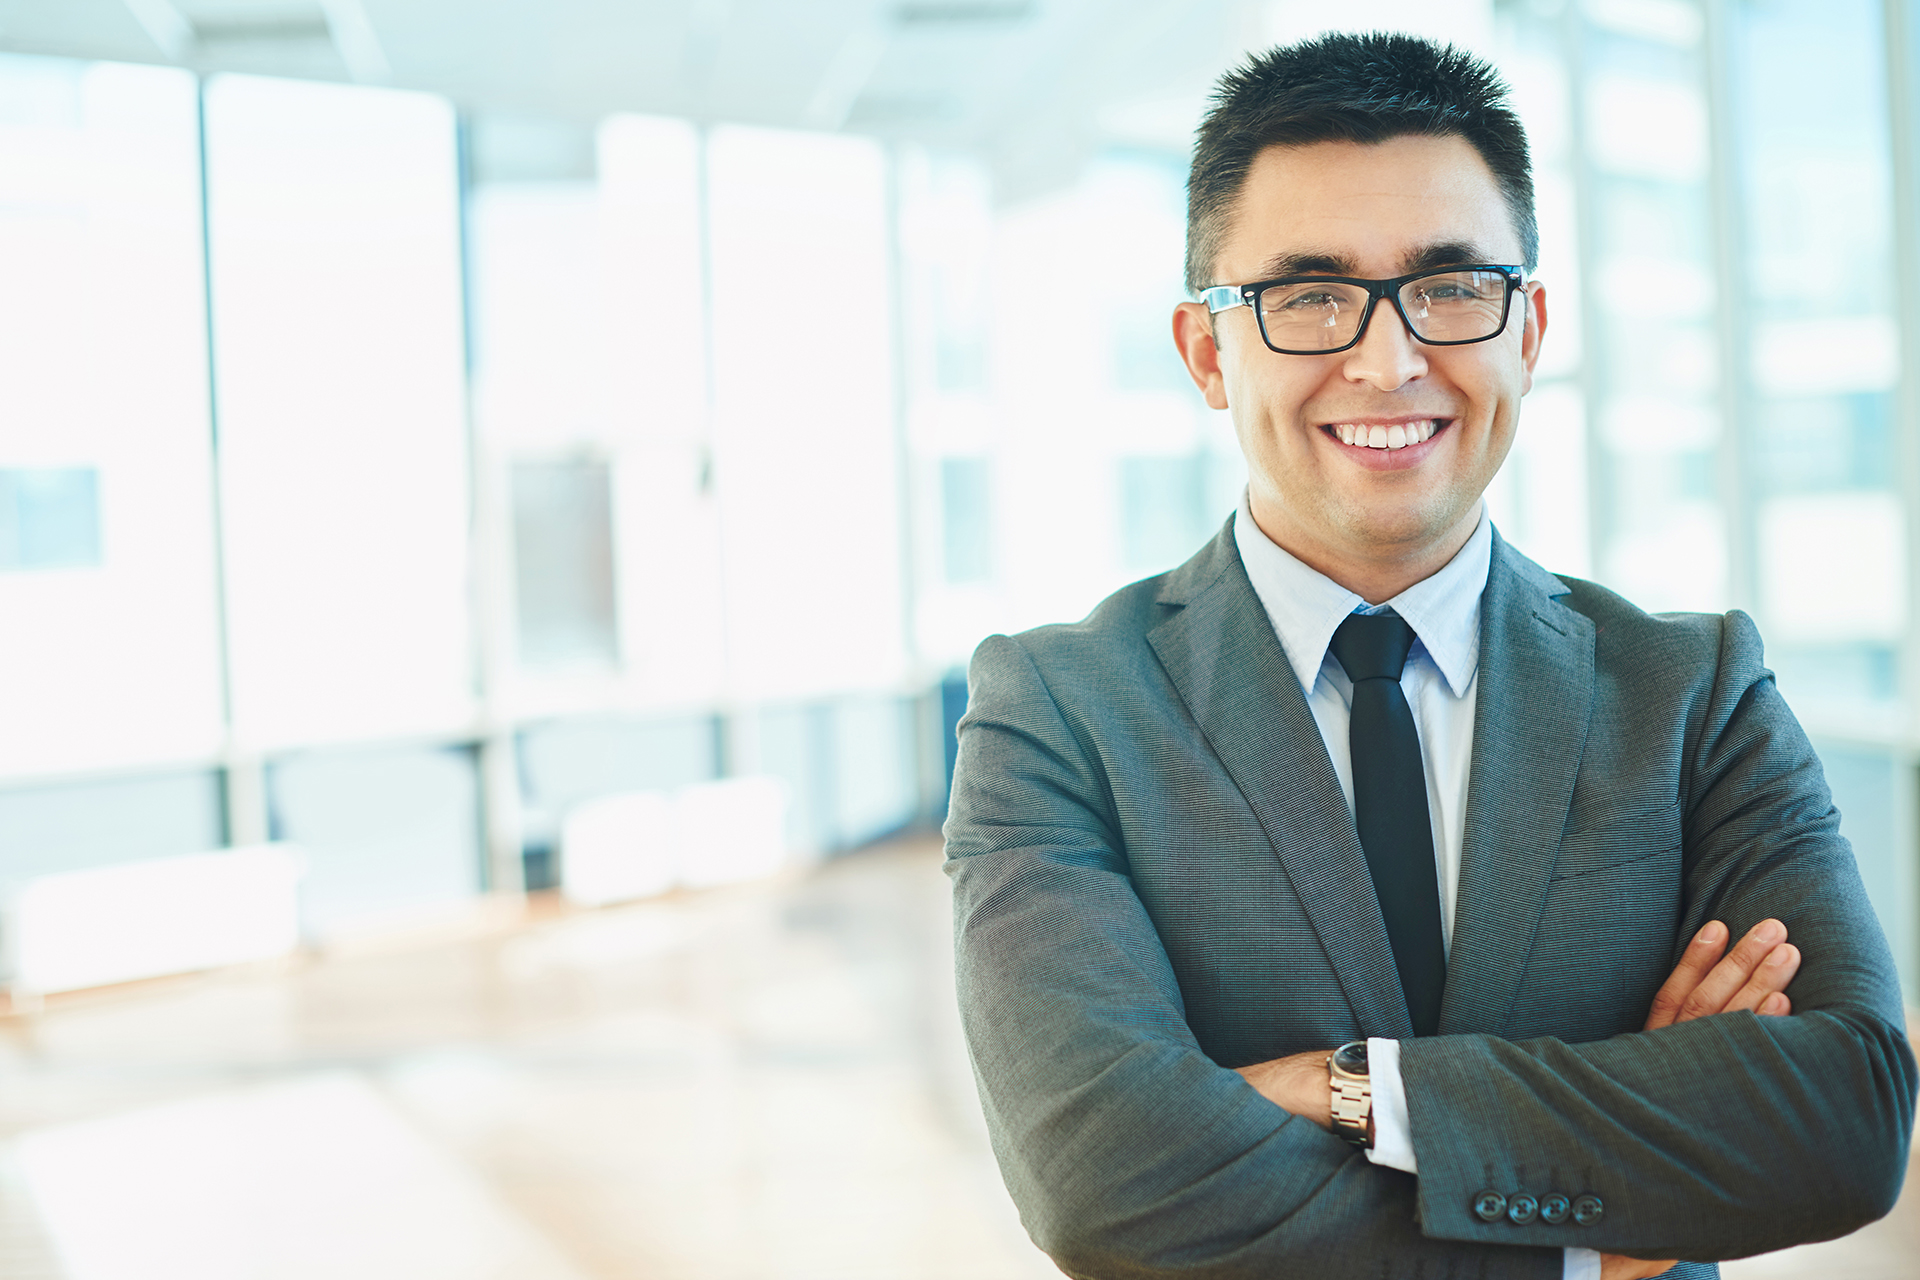
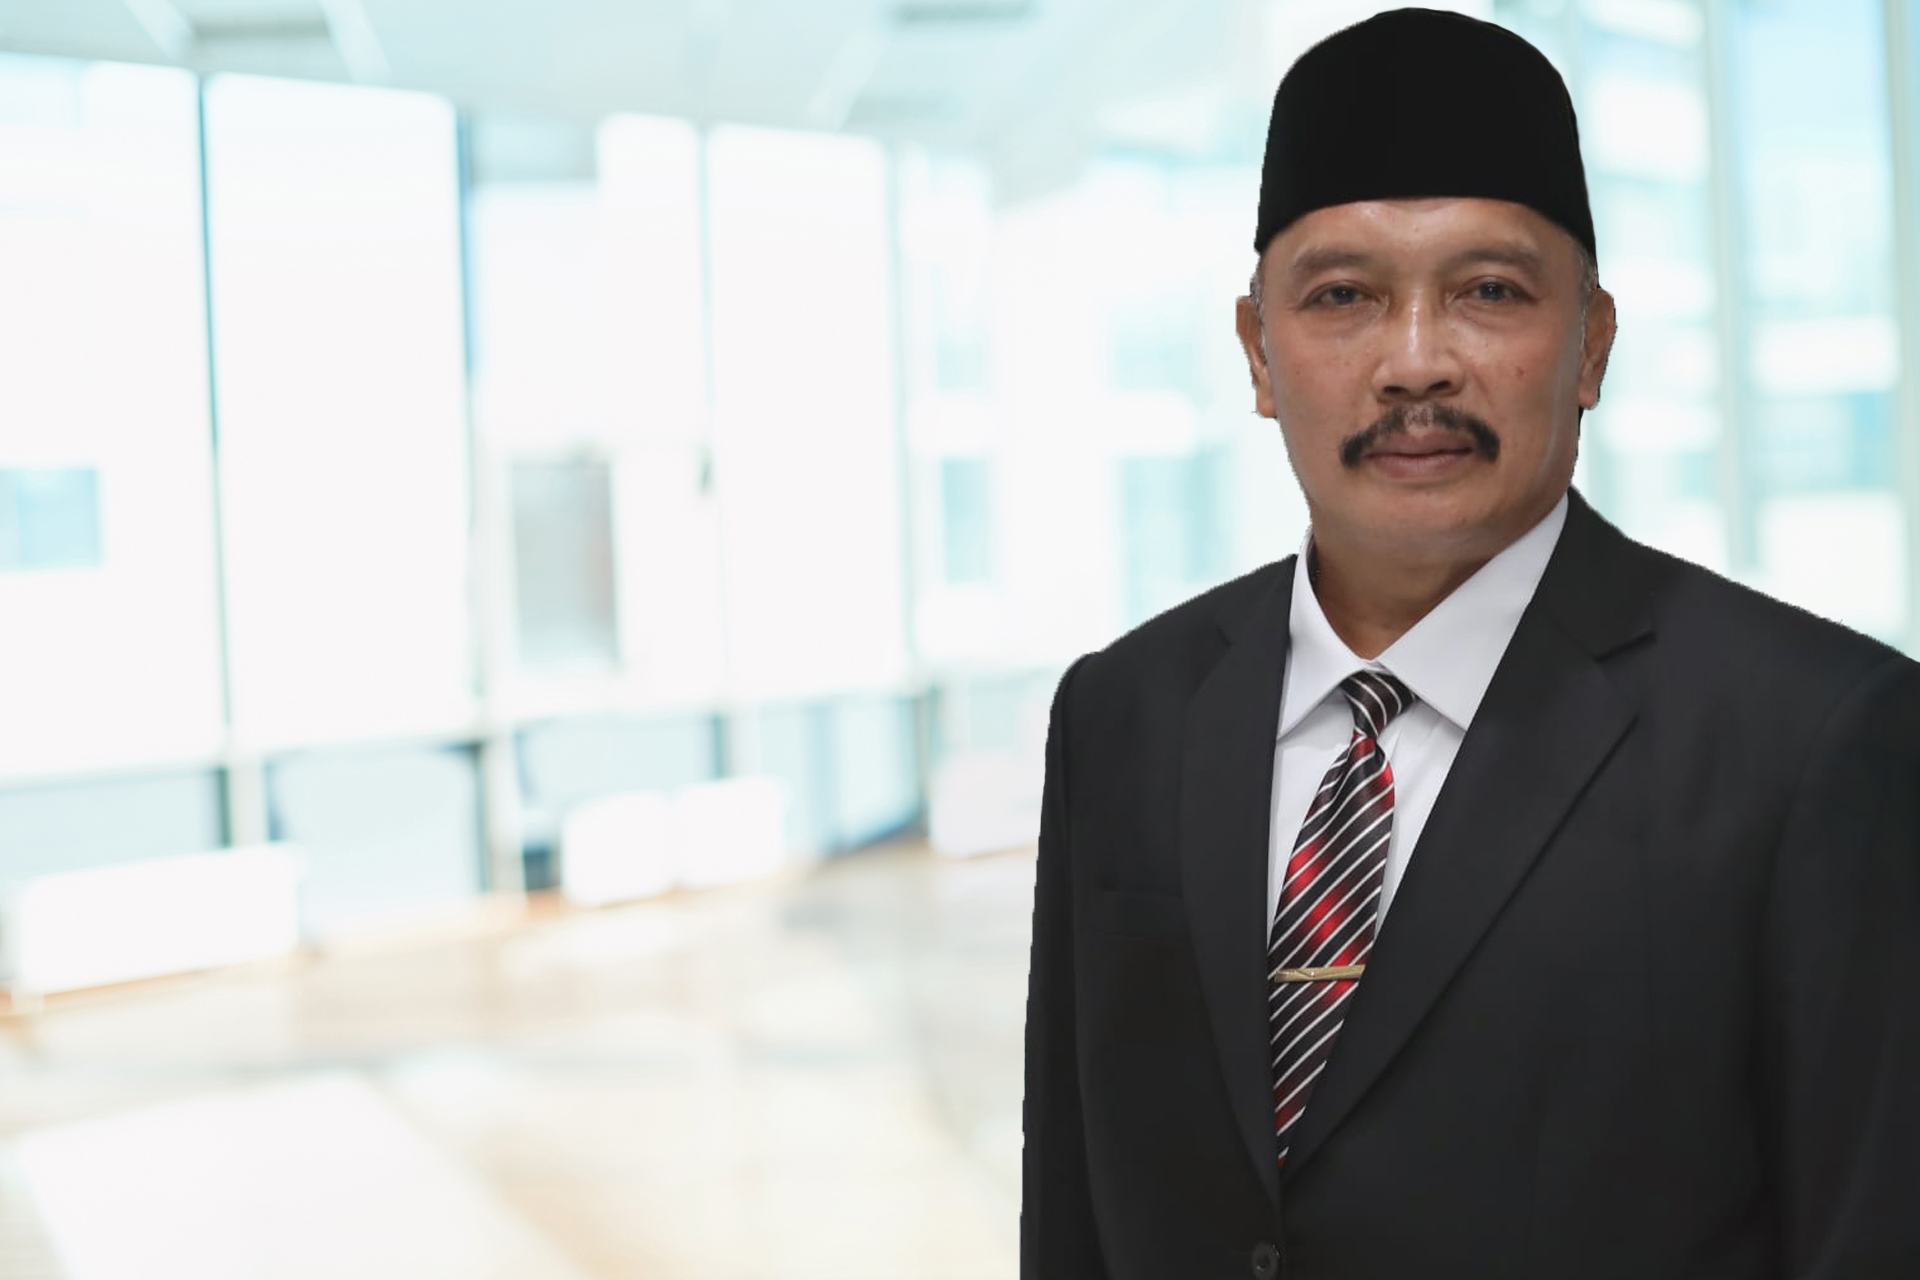
f

diff --git a/public/profile/css/style.css b/public/profile/css/style.css
@@ -211,7 +211,7 @@ a:active {
                       ABOUT
 ====================================================*/
   #about {
-      background-image: url(/profile/images.jpeg); 
+      background-image: url(../img/profile-banner.jpg); 
       background-size: cover;
       background-position: center center;
       background-repeat: no-repeat;

diff --git a/resources/views/profil.blade.php b/resources/views/profil.blade.php
@@ -26,7 +26,7 @@
       <a class="navbar-brand js-scroll-trigger" href="#page-top">
         <span class="d-block d-lg-none  mx-0 px-0"><img src="img/logo-white.png" alt="" class="img-fluid"></span>
         <span class="d-none d-lg-block">
-          <img class="img-fluid img-profile rounded-circle mx-auto mb-2" src="/profile/download.png" alt="">
+          <img class="img-fluid img-profile rounded-circle mx-auto mb-2" src="/profile/img/profile-pic.jpg" alt="">
         </span>
       </a>
         <button class="navbar-toggler" type="button" data-toggle="collapse" data-target="#navbarSupportedContent" aria-controls="navbarSupportedContent" aria-expanded="false" aria-label="Toggle navigation">
